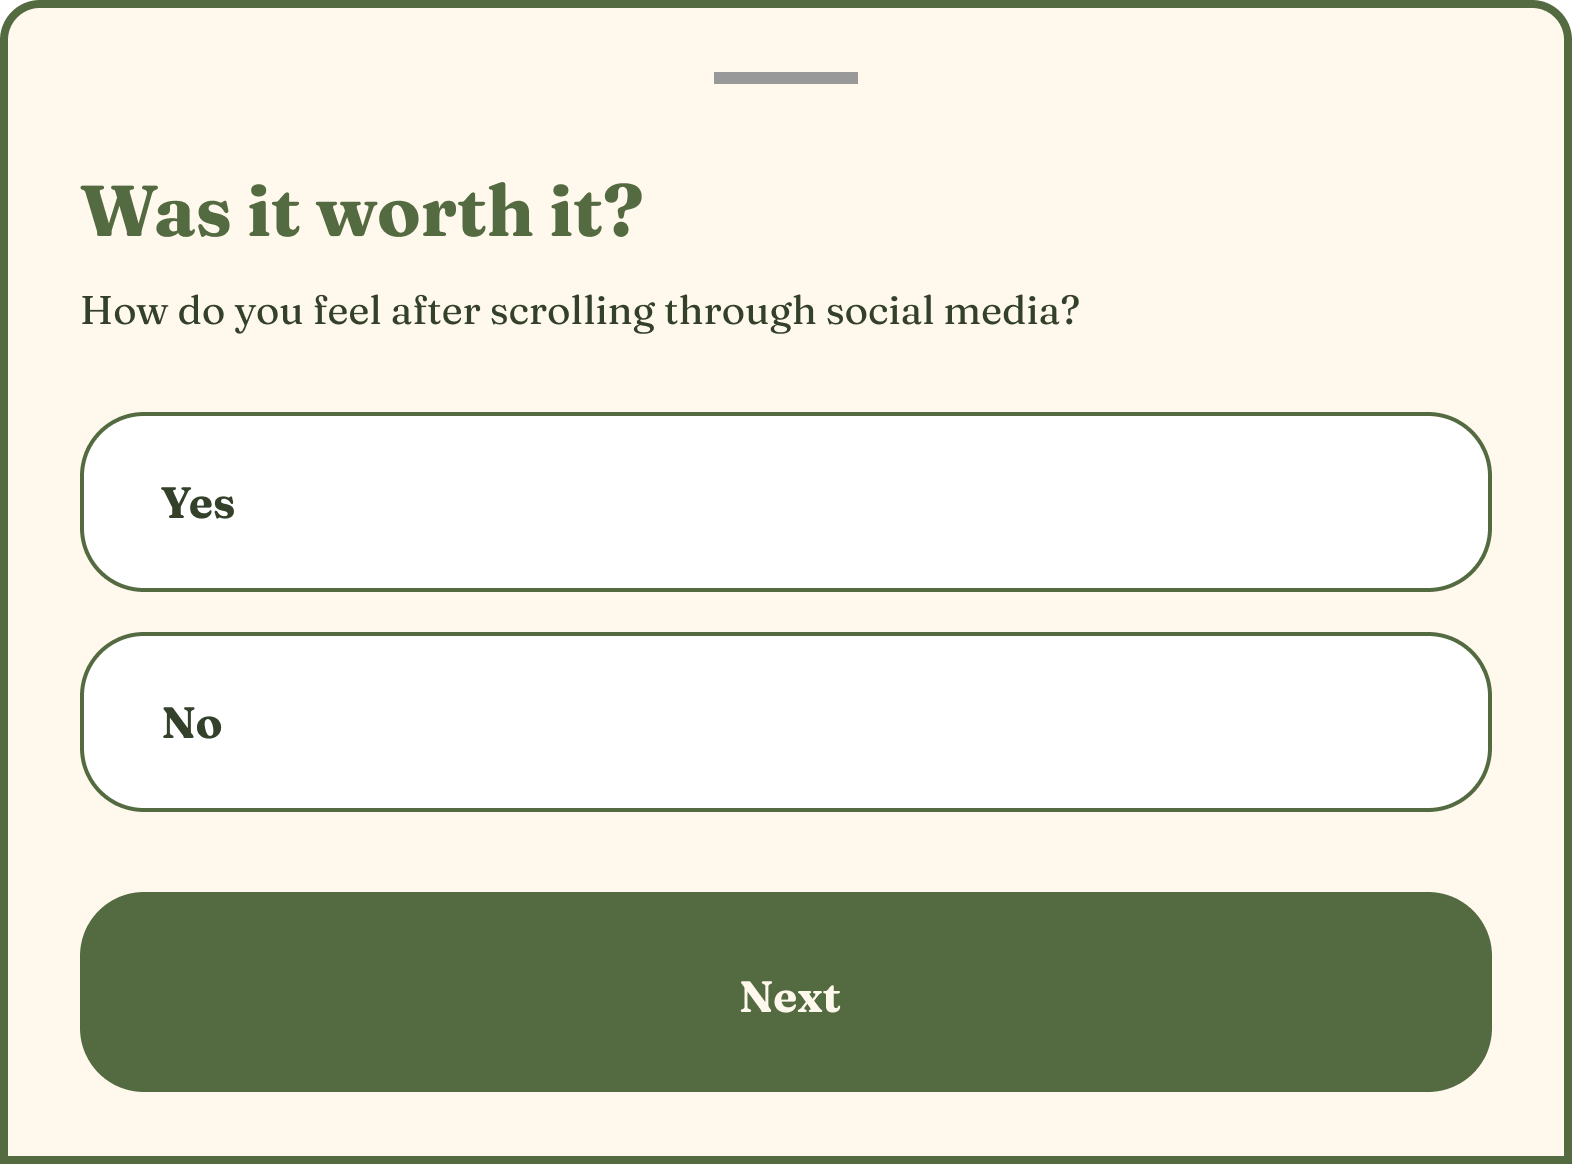
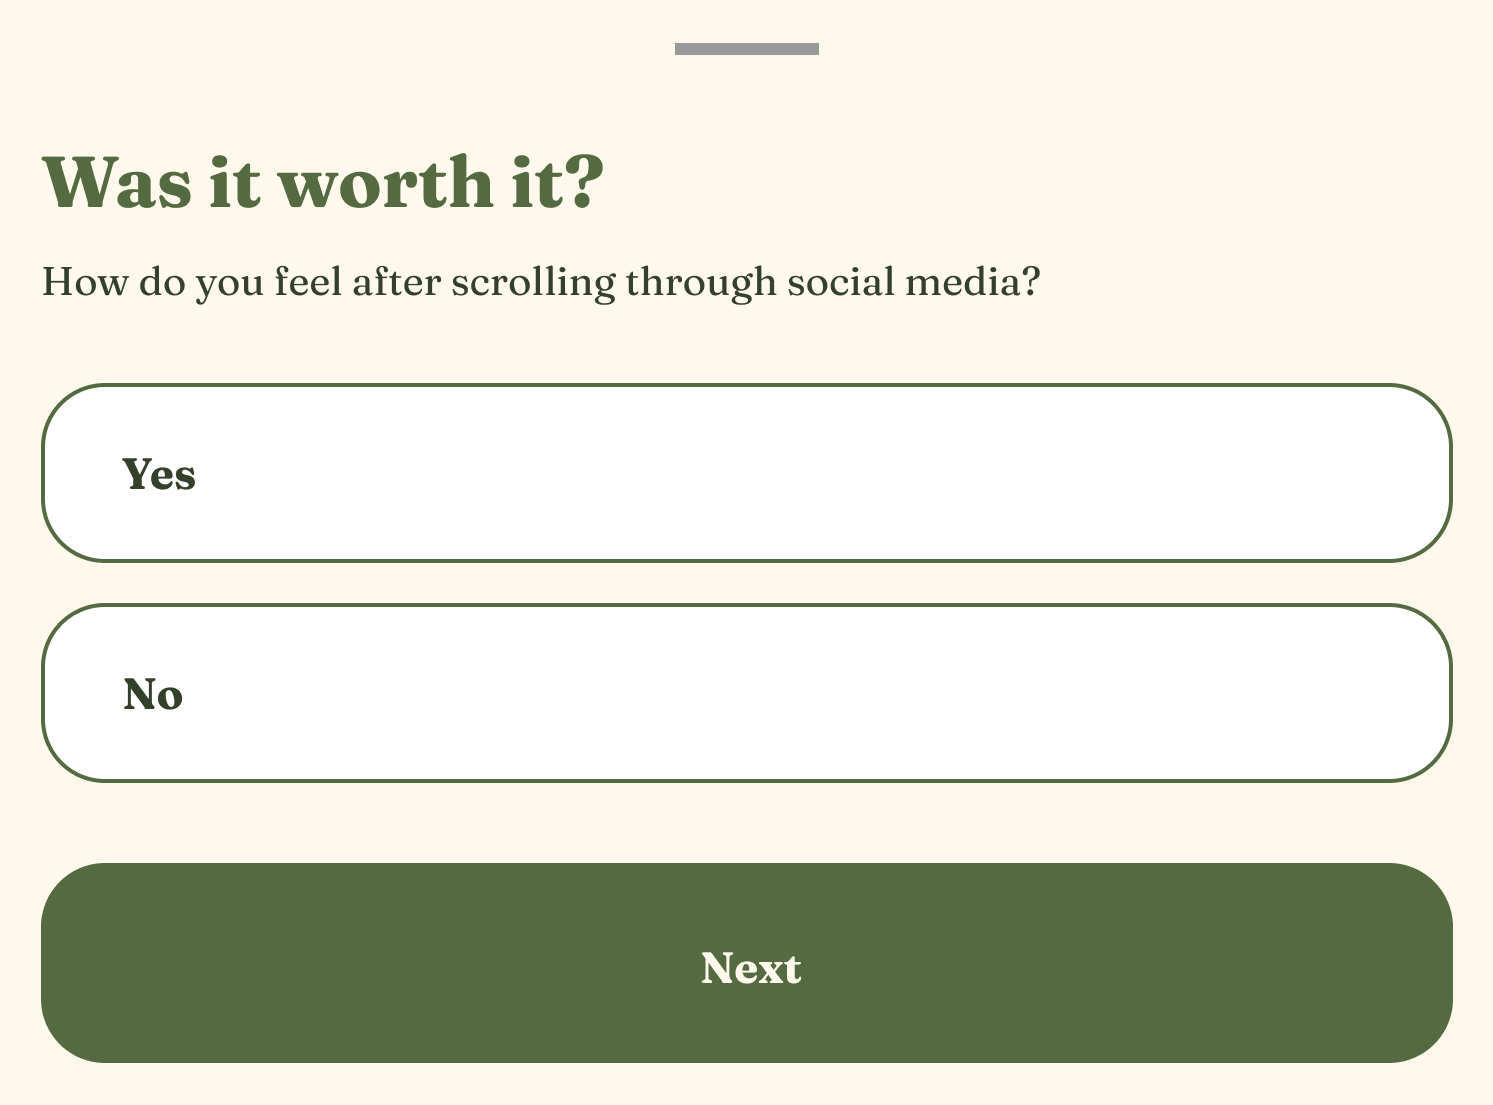
changes

Changed region(s): [[0.0, 0.0, 1.0, 1.0], [0.4622, 0.8308, 0.5546, 0.8923]]

diff --git a/css/style.css b/css/style.css
@@ -35,7 +35,6 @@ a{color:inherit;text-decoration:none;}
 nav{position:sticky;top:0;background:rgba(255,240,188,0.92);backdrop-filter:blur(10px);border-bottom:3px solid var(--border);z-index:20;}
 .nav-row{display:flex;align-items:center;justify-content:space-between;height:82px;}
 .logo{font-family:'Chakra Petch',sans-serif;font-weight:700;font-size:20px;display:flex;align-items:center;gap:8px;}
-.logo .dot{width:10px;height:10px;border-radius:50%;background:var(--coral);border:2px solid var(--border);}
 .nav-links{display:flex;gap:34px;font-size:15px;font-weight:600;color:var(--ink);}
 .nav-links a.active{color:var(--coral);}
 .nav-links a:hover{color:var(--coral);}
@@ -69,16 +68,6 @@ nav{position:sticky;top:0;background:rgba(255,240,188,0.92);backdrop-filter:blur
 
 /* HERO */
 .hero{padding:70px 0 30px;text-align:center;}
-.pill{
-  display:inline-flex;align-items:center;gap:6px;
-  background:var(--orange);
-  border:3px solid var(--border);
-  border-radius:999px;
-  padding:8px 18px;
-  font-family:'Chakra Petch',sans-serif;font-weight:700;font-size:13px;
-  letter-spacing:.08em;text-transform:uppercase;
-  box-shadow:var(--shadow-sm);
-}
 .hero h1{
   margin-top:24px;
   font-size:56px;font-weight:700;
@@ -103,7 +92,7 @@ nav{position:sticky;top:0;background:rgba(255,240,188,0.92);backdrop-filter:blur
 
 /* PROJECTS */
 .proj-card{
-  background:var(--orange);
+  background:var(--cream);
   border:4px solid var(--border);
   border-radius:var(--radius);
   box-shadow:6px 5px 0px 0px var(--border);
@@ -112,8 +101,6 @@ nav{position:sticky;top:0;background:rgba(255,240,188,0.92);backdrop-filter:blur
   margin-bottom:32px;
   transition:transform .15s ease, box-shadow .15s ease;
 }
-.proj-card:nth-child(even){background:var(--orange);}
-.proj-card:hover{transform:translate(-3px,-3px);box-shadow:9px 8px 0px 0px var(--border);}
 @media (max-width:800px){.proj-card{flex-direction:column;align-items:flex-start;}}
 .proj-text{flex:1;min-width:0;}
 .proj-text h3{font-size:26px;font-weight:700;margin-bottom:12px;}
@@ -126,10 +113,7 @@ nav{position:sticky;top:0;background:rgba(255,240,188,0.92);backdrop-filter:blur
   display:flex;align-items:center;justify-content:center;
 }
 @media (max-width:800px){.proj-visual{width:100%;}}
-.proj-visual.v1{background:var(--cream);}
-.proj-visual.v2{background:#fff;}
 .proj-visual img{width:100%;height:100%;object-fit:cover;}
-.proj-visual.v2 img{object-fit:contain;padding:24px;}
 
 /* SKILLS */
 .skills-grid{
@@ -144,13 +128,11 @@ nav{position:sticky;top:0;background:rgba(255,240,188,0.92);backdrop-filter:blur
   padding:32px 36px;
   transition:transform .15s ease, box-shadow .15s ease;
 }
-.skill-category:hover{transform:translate(-3px,-3px);box-shadow:8px 8px 0px 0px var(--border);}
 .skill-category h3{
   font-size:20px;font-weight:700;
   display:flex;align-items:center;gap:10px;
   margin-bottom:20px;
 }
-.skill-category .cat-icon{color:var(--coral);font-size:16px;}
 .skill-tags{display:flex;flex-wrap:wrap;gap:10px;}
 .tag-chip{
   font-family:'Chakra Petch',sans-serif;
@@ -163,7 +145,6 @@ nav{position:sticky;top:0;background:rgba(255,240,188,0.92);backdrop-filter:blur
   cursor:default;
   transition:transform .12s ease, box-shadow .12s ease;
 }
-.tag-chip:hover{transform:translate(-2px,-2px);box-shadow:5px 5px 0px 0px var(--border);}
 
 /* CONTACT */
 .contact{background:var(--cream);border-top:3px solid var(--border);text-align:center;padding:100px 0;}
@@ -221,12 +202,6 @@ footer{border-top:3px solid var(--border);padding:32px 0;background:var(--cream)
   object-position:47% center;
   display:block;
 }
-.about-photo .tag{
-  position:absolute;top:20px;left:20px;
-  background:var(--cream);border:3px solid var(--border);border-radius:999px;
-  padding:8px 16px;font-family:'Chakra Petch',sans-serif;font-weight:700;font-size:13px;
-  box-shadow:var(--shadow-sm);
-}
 .about-content{
   background:var(--cream);
   border:3px solid var(--border);
@@ -270,7 +245,7 @@ footer{border-top:3px solid var(--border);padding:32px 0;background:var(--cream)
 .exp-stack{display:flex;flex-direction:column;gap:50px;}
 
 .exp-group{
-  background:var(--orange);
+  background:var(--cream);
   border:3px solid var(--border);
   border-radius:var(--radius);
   box-shadow:var(--shadow);
@@ -313,7 +288,6 @@ footer{border-top:3px solid var(--border);padding:32px 0;background:var(--cream)
 .timeline-role-title{font-family:'Chakra Petch',sans-serif;font-weight:700;font-size:22px;}
 .timeline-role-meta{text-align:right;flex-shrink:0;}
 .timeline-role-year{font-family:'Chakra Petch',sans-serif;font-weight:700;font-size:15px;}
-.timeline-role-loc{font-size:14px;color:var(--ink);opacity:.7;margin-top:4px;font-weight:500;}
 @media (max-width:700px){
   .timeline-role{flex-direction:column;align-items:flex-start;gap:6px;}
   .timeline-role-meta{text-align:left;}
@@ -323,14 +297,13 @@ footer{border-top:3px solid var(--border);padding:32px 0;background:var(--cream)
 
 .exp-card{
   display:flex;align-items:center;justify-content:space-between;gap:24px;
-  background:var(--orange);
+  background:var(--cream);
   border:3px solid var(--border);
   border-radius:var(--radius);
   padding:32px 36px;
   box-shadow:var(--shadow);
   transition:transform .15s ease, box-shadow .15s ease;
 }
-.exp-card:hover{transform:translate(-3px,-3px);box-shadow:8px 8px 0px 0px var(--border);}
 @media (max-width:700px){.exp-card{flex-direction:column;align-items:flex-start;}}
 .exp-main{display:flex;align-items:center;gap:24px;flex:1;}
 .exp-title{font-family:'Chakra Petch',sans-serif;font-weight:700;font-size:22px;}
@@ -345,19 +318,18 @@ footer{border-top:3px solid var(--border);padding:32px 0;background:var(--cream)
 .page-projects main{flex:1;}
 .projects-list .section-head{align-items:center;margin-bottom:40px;}
 .projects-list .proj-card{
-  border:5px solid #000;
+  border:3px solid var(--border);
+  border-radius:var(--radius);
   box-shadow:4px 2px 0px 0px #000;
-  padding:50px 80px;
-  margin-bottom:40px;
+  box-shadow:var(--shadow);
+  padding:32px 36px;
 }
-.projects-list .proj-card:hover{box-shadow:7px 5px 0px 0px #000;}
 .projects-list .proj-text h3{font-size:28px;}
 .projects-list .proj-text p{max-width:420px;}
 .projects-list .proj-visual{
   width:340px;height:255px;
-  border:0;border-radius:0;box-shadow:none;
+  border:3px solid var(--border);border-radius:var(--radius);box-shadow:none;
 }
-.projects-list .proj-visual.v2 img{padding:0;}
 .projects-page .proj-card{margin-bottom:50px;}
 @media (max-width:800px){
   .projects-list .proj-card{padding:32px 24px;}

diff --git a/index.html b/index.html
@@ -16,7 +16,7 @@
 
   <nav>
     <div class="wrap nav-row">
-      <div class="logo"><span class="dot"></span>Michael Solomon</div>
+      <div class="logo"></span>Michael Solomon</div>
       <button class="nav-toggle" id="navToggle" aria-label="Toggle menu" aria-expanded="false">
         <svg width="20" height="20" viewBox="0 0 24 24" fill="none" stroke="currentColor" stroke-width="2"
           stroke-linecap="round">
@@ -35,7 +35,6 @@
 
   <section class="section hero">
     <div class="wrap">
-      <span class="pill">✦ Aspiring UX Designer</span>
       <h1>Hi, I'm Michael Solomon</h1>
       <p class="sub">Development background. User first mindset.</p>
       <div class="actions">
@@ -73,7 +72,7 @@
   <section class="section projects-list" id="projects">
     <div class="wrap">
       <div class="section-head">
-        <h2>Proj`ects</h2>
+        <h2>Projects</h2>
         <a href="/projects.html" class="view-all">View all →</a>
       </div>
 
@@ -83,7 +82,7 @@
           <p>A check-in app that interrupts the scroll to ask one honest question</p>
           <a href="/was-it-worth-it.html" class="btn btn-primary">View case study</a>
         </div>
-        <div class="proj-visual v1">
+        <div class="proj-visual">
           <img src="assets/img/was-it-worth-it.png" alt="Was It Worth It app screen asking Yes or No">
         </div>
       </div>
@@ -94,7 +93,7 @@
           <p>A compatibility dating app, built to replace endless swiping with fewer, better matches</p>
           <a href="/wink.html" class="btn btn-primary">View case study</a>
         </div>
-        <div class="proj-visual v2">
+        <div class="proj-visual">
           <img src="assets/img/wink.png" alt="WINK app logo, a stylized pink eye">
         </div>
       </div>
@@ -109,7 +108,7 @@
 
       <div class="skills-grid">
         <div class="skill-category reveal">
-          <h3><span class="cat-icon">✦</span> Design</h3>
+          <h3><span class="cat-icon"></span> Design</h3>
           <div class="skill-tags">
             <span class="tag-chip">Prototyping</span>
             <span class="tag-chip">Wireframing</span>
@@ -119,7 +118,7 @@
         </div>
 
         <div class="skill-category reveal">
-          <h3><span class="cat-icon">✦</span> Research</h3>
+          <h3><span class="cat-icon"></span> Research</h3>
           <div class="skill-tags">
             <span class="tag-chip">User Interviews</span>
             <span class="tag-chip">Usability Testing</span>
@@ -129,7 +128,7 @@
         </div>
 
         <div class="skill-category reveal">
-          <h3><span class="cat-icon">✦</span> Tools</h3>
+          <h3><span class="cat-icon"></span> Tools</h3>
           <div class="skill-tags">
             <span class="tag-chip">Figma</span>
             <span class="tag-chip">FigJam</span>
@@ -140,7 +139,7 @@
         </div>
 
         <div class="skill-category reveal">
-          <h3><span class="cat-icon">✦</span> Programming</h3>
+          <h3><span class="cat-icon"></span> Programming</h3>
           <div class="skill-tags">
             <span class="tag-chip">HTML/CSS</span>
             <span class="tag-chip">JavaScript</span>
